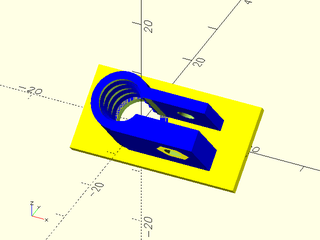
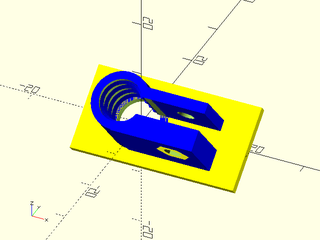
deploy: c2c0443979b5fa2e643fc554c48958ae2c514187

diff --git a/unfy_brackets.scad.md b/unfy_brackets.scad.md
@@ -48,7 +48,7 @@ Creates a simple bracket.
 
 **Figure 1.1.1:** 
 
-<img align="left" alt="unf\_simple\_bracket Figure 1.1.1" src="images/unfy_brackets/figure_1_1_1.png" width="320" height="240">
+<img align="left" alt="unf\_simple\_bracket Figure 1.1.1" src="images/unfy_brackets/figure_1_1_1.gif" width="320" height="240">
 
 <br clear="all" /><br/>
 
